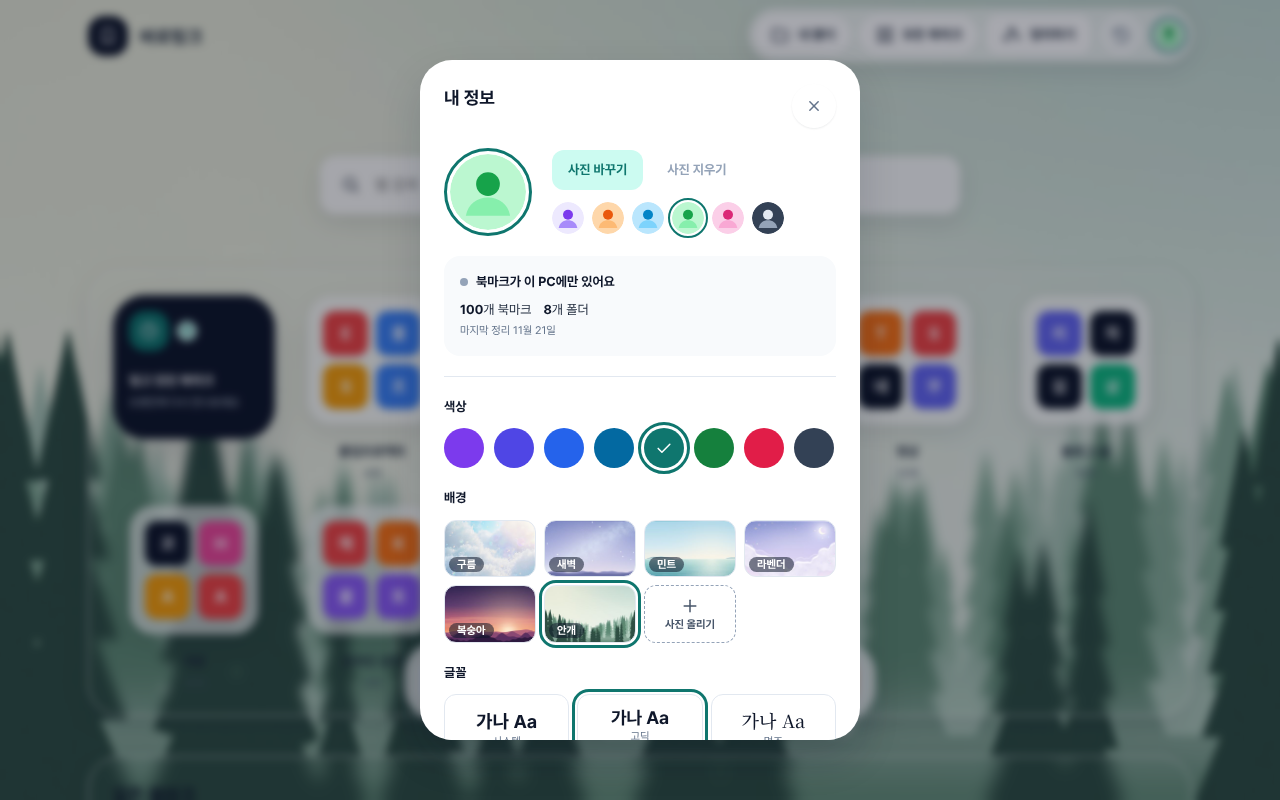
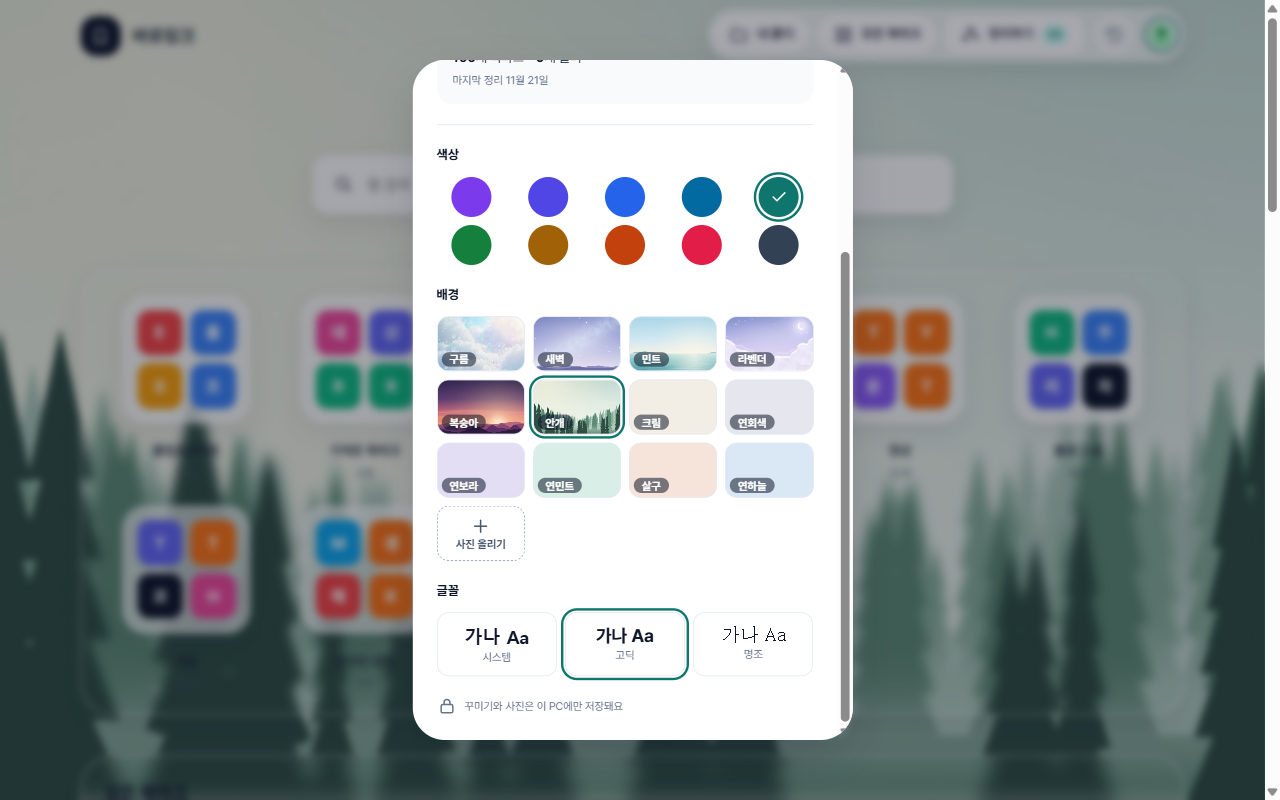
docs: 스크린샷 6번을 #100 화면으로 다시 찍음 (S6)

diff --git a/store/listing.md b/store/listing.md
@@ -126,7 +126,7 @@ https://github.com/aix-team-5/aix_BaroLink_bookmark/blob/main/docs/privacy.md
 | 3 | 정리 결과 안내와 정리된 내 폴더 | `store/screenshot-3-organize-result.png` | **웹스토어** | 찍음 |
 | 4 | 잊고 있던 북마크 팝업 | `store/screenshot-4-forgotten.png` | **웹스토어** | 찍음 |
 | 5 | 폴더 팝업 안에서 앱 순서 바꾸기 | `store/screenshot-5-folder-reorder.png` | 발표 자료용 | 찍음 |
-| 6 | 내 정보와 꾸미기 창 | `store/screenshot-6-profile.png` | **웹스토어** | **다시 찍어야 함** (색 8개·배경 6개 때 화면. 다시 찍으면 "#100 화면으로 다시 찍음"으로 바꾼다) |
+| 6 | 내 정보와 꾸미기 창 | `store/screenshot-6-profile.png` | **웹스토어** | #100 화면으로 다시 찍음 |
 | 7 | 앱을 끌어 폴더에 넣기 | `store/screenshot-7-drag-to-folder.png` | **웹스토어** | 찍음 |
 
 ## 6. 제출 패키지
